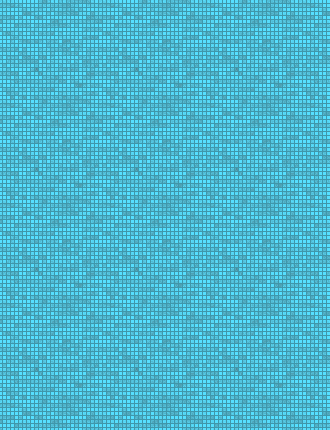
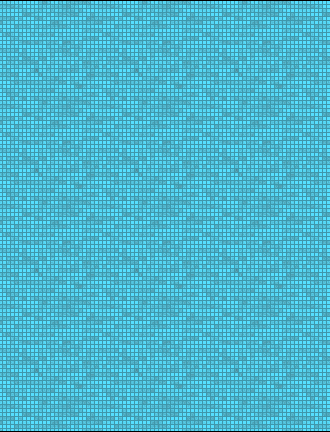
background images replaced with new ones (1px top and bottom border added)

Changed region(s): [[0.0, 0.6349, 1.0, 1.0], [0.0, 0.0, 1.0, 0.3628]]

diff --git a/lib/screens/settings_menu.dart b/lib/screens/settings_menu.dart
@@ -68,7 +68,6 @@ class SettingsMenu extends StatelessWidget {
                           inactiveTrackColor: Colors.black,
                           value: backgroundMusic,
                           onChanged: (bool newValue) {
-                            print(backgroundMusic);
                             Provider.of<Settings>(context, listen: false)
                                 .backgroundMusic = newValue;
                             if (newValue) {

diff --git a/lib/game/game.dart b/lib/game/game.dart
@@ -205,7 +205,7 @@ class WallPasserGame extends FlameGame
       _scoreToGameLevelIndex *= 3;
       ++_gameLevel;
       this._background.sprite =
-          Sprite(images.fromCache('background_$_gameLevel.png'));
+          Sprite(images.fromCache('background_$gameLevel.png'));
       this._wallManager.sprite =
           Sprite(images.fromCache('wall_$_gameLevel.png'));
     }
